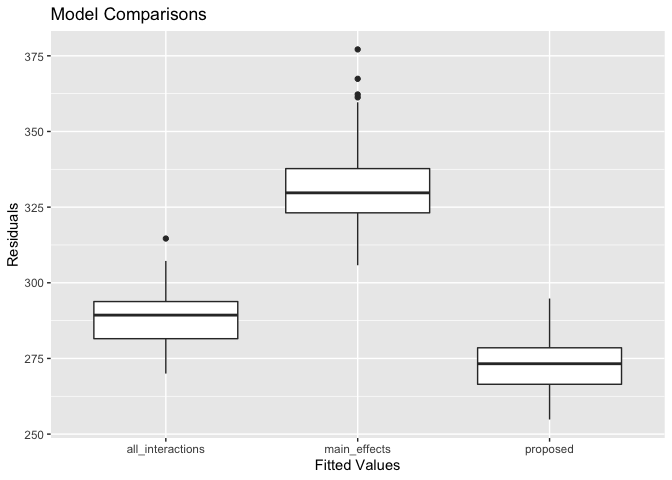
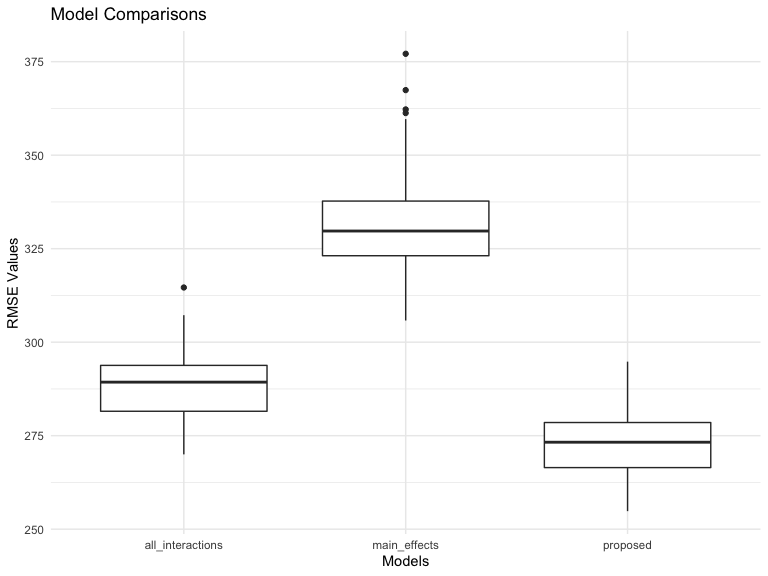
Problem 2

diff --git a/p8105_hw6_lh3109.md b/p8105_hw6_lh3109.md
@@ -5,6 +5,26 @@ p8105_hw6_lh3109
 library(tidyverse)
 library(modelr)
 library(mgcv)
+
+set.seed(1)
+
+knitr::opts_chunk$set(
+  echo = TRUE,
+  warning = FALSE,
+  fig.width = 8,
+  fig.height = 6,
+  out.width = "90%"
+)
+
+options(
+  ggplot2.continuous.colour = "viridis",
+  ggplot2.continuous.fill = "viridis"
+)
+
+scale_color_discrete = scale_colour_viridis_d
+scale_fill_discrete = scale_fill_viridis_d
+
+theme_set(theme_minimal() + theme(legend.position = "bottom"))
 ```
 
 # Problem 1
@@ -261,7 +281,7 @@ bw_df %>%
        y = "Residuals")
 ```
 
-![](p8105_hw6_lh3109_files/figure-gfm/unnamed-chunk-4-1.png)<!-- -->
+<img src="p8105_hw6_lh3109_files/figure-gfm/unnamed-chunk-4-1.png" width="90%" />
 
 As shown in the plot, with fitted value below 2000 or above 4000, the
 residuals do not bounce randomly around the 0 line, suggesting that the
@@ -276,8 +296,6 @@ falls directly on the estimated regression line.
 ### Set up training and test subsets
 
 ``` r
-set.seed(1)
-
 birthweight_cv = 
   crossv_mc(bw_df, 100) %>% 
   mutate(
@@ -324,16 +342,163 @@ birthweight_cv %>%
   ggplot(aes(x = model, y = rmse)) +
   geom_boxplot() +
     labs(title = "Model Comparisons",
-       x = "Fitted Values",
-       y = "Residuals")
+       x = "Models",
+       y = "RMSE Values")
 ```
 
-![](p8105_hw6_lh3109_files/figure-gfm/unnamed-chunk-7-1.png)<!-- --> As
-shown in the plot, the proposed model has much lower residual values
-than the model considering length at birth and gestational age as
-predictors(main_effects). It also has lower residual values than the
-model considering head circumference, length, sex and all interactions
-of these three variables as predictors(all_interactions). These
-indicates that the proposed model is better than the two model compared.
+<img src="p8105_hw6_lh3109_files/figure-gfm/unnamed-chunk-7-1.png" width="90%" />
+
+As shown in the plot, the proposed model has much lower rmse values than
+the model considering length at birth and gestational age as
+predictors(main_effects). It also has lower rmse values than the model
+considering head circumference, length, sex and all interactions of
+these three variables as predictors(all_interactions). These indicates
+that the proposed model is better than the two model compared.
 
 # Prolem 2
+
+## Load data
+
+``` r
+weather_df = 
+  rnoaa::meteo_pull_monitors(
+    c("USW00094728"),
+    var = c("PRCP", "TMIN", "TMAX"), 
+    date_min = "2017-01-01",
+    date_max = "2017-12-31") %>%
+  mutate(
+    name = recode(id, USW00094728 = "CentralPark_NY"),
+    tmin = tmin / 10,
+    tmax = tmax / 10) %>%
+  select(name, id, everything())
+```
+
+## Bootstrapping
+
+### Write a function for one boostrap sample analysis
+
+``` r
+boot_sample = function(mod) {
+  #find adjusted r square of the estimates
+  r_squared = 
+    mod %>% 
+    broom::glance() %>% 
+    pull(adj.r.squared)
+  
+  #tidy the results of the model
+  result = 
+    mod %>% 
+    broom::tidy()
+  
+  #pull estimates values for further analysis
+  betas = 
+    result %>% 
+    pull(estimate)
+  
+  #return a tibble
+  tibble(result, r_squared, log_betas = log(betas[1] * betas[2]))
+}
+```
+
+### Boostrap sample for multiple times
+
+``` r
+weather_results = 
+  weather_df %>% 
+  bootstrap(n = 5000, id = "strap_number") %>% 
+    mutate(
+    models = map(.x = strap, ~lm(tmax ~ tmin, data = .x)),
+    results = map(models, boot_sample)
+  ) %>% 
+  select(strap_number, results) %>% 
+  unnest(results)
+```
+
+### Plot distribution of estimates
+
+``` r
+weather_results %>% 
+  filter(term == "tmin") %>% 
+  ggplot(aes(estimate)) +
+  geom_density() + 
+  labs(title = "Distribution of Estimates",
+       x = "Estimate",
+       y = "Density")  
+```
+
+<img src="p8105_hw6_lh3109_files/figure-gfm/unnamed-chunk-11-1.png" width="90%" />
+
+This plot shows the distribution of the estimates of tmin after
+repeating bootstrapping the sample multiple times. The peak is almost
+symmetric, indicating that the distribution is approximately normal.
+
+### Plot distribution of R^2
+
+``` r
+weather_results %>% 
+  ggplot(aes(x = r_squared)) +
+  geom_density() + 
+  labs(title = "Distribution of R^2 of Estimates",
+       x = "R^2",
+       y = "Density")
+```
+
+<img src="p8105_hw6_lh3109_files/figure-gfm/unnamed-chunk-12-1.png" width="90%" />
+
+The plot of the distribution of R^2 of the estimates shown above is
+relatively symmetric, suggesting that this distribution is approximately
+normal.
+
+### Plot distribution of log(beta0\*beta1)
+
+``` r
+weather_results %>% 
+  ggplot(aes(x = log_betas)) +
+  geom_density() + 
+  labs(title = "Distribution of Log(beta_0 * beta_1)",
+       x = "Log(beta_0 * beta_1)",
+       y = "Density")
+```
+
+<img src="p8105_hw6_lh3109_files/figure-gfm/unnamed-chunk-13-1.png" width="90%" />
+
+The plot of the distribution of log(beta_0 \* beta_1) shown above is
+relatively symmetric, suggesting that this distribution is approximately
+normal.
+
+### Find 95% CI for R^2
+
+``` r
+weather_results %>% 
+  group_by(term) %>% 
+  summarize(
+    ci_lower = quantile(r_squared, 0.025), 
+    ci_upper = quantile(r_squared, 0.975))
+```
+
+    ## # A tibble: 2 × 3
+    ##   term        ci_lower ci_upper
+    ##   <chr>          <dbl>    <dbl>
+    ## 1 (Intercept)    0.893    0.927
+    ## 2 tmin           0.893    0.927
+
+As shown in the output, the 95% CI for the R^2 is (0.893, 0.927).
+
+### Find 95% CI for log(beta0\*beta1)
+
+``` r
+weather_results %>% 
+  group_by(term) %>% 
+  summarize(
+    ci_lower = quantile(log_betas, 0.025), 
+    ci_upper = quantile(log_betas, 0.975))
+```
+
+    ## # A tibble: 2 × 3
+    ##   term        ci_lower ci_upper
+    ##   <chr>          <dbl>    <dbl>
+    ## 1 (Intercept)     1.97     2.06
+    ## 2 tmin            1.97     2.06
+
+As shown in the output, the 95% CI for the log(beta0\*beta1) is (1.97,
+2.06).
